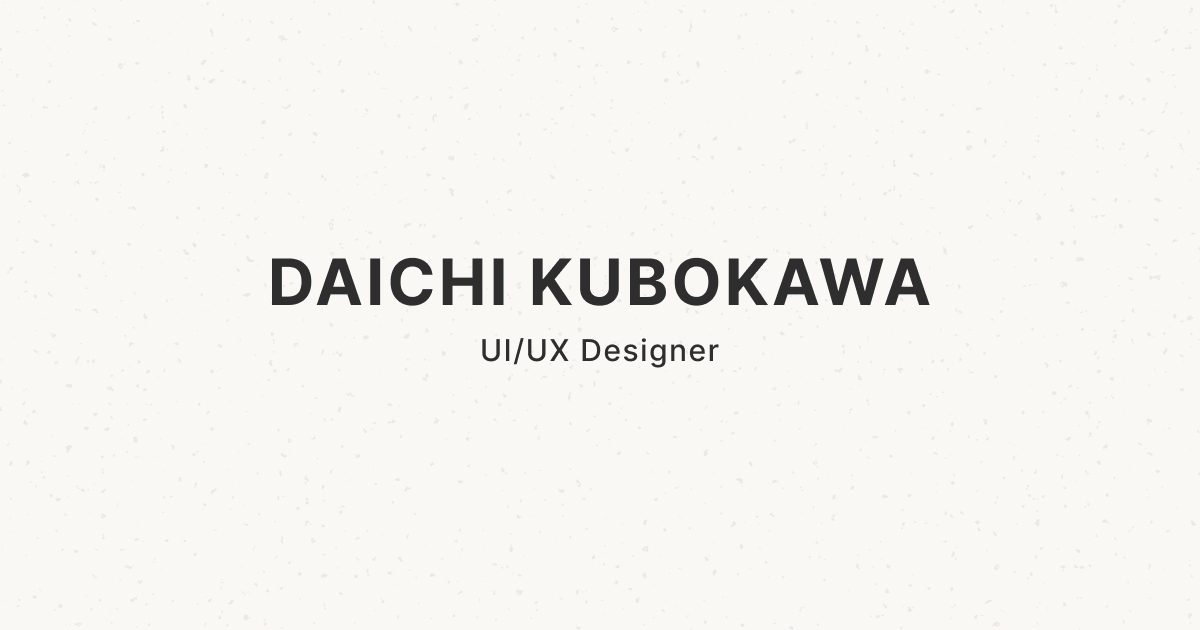
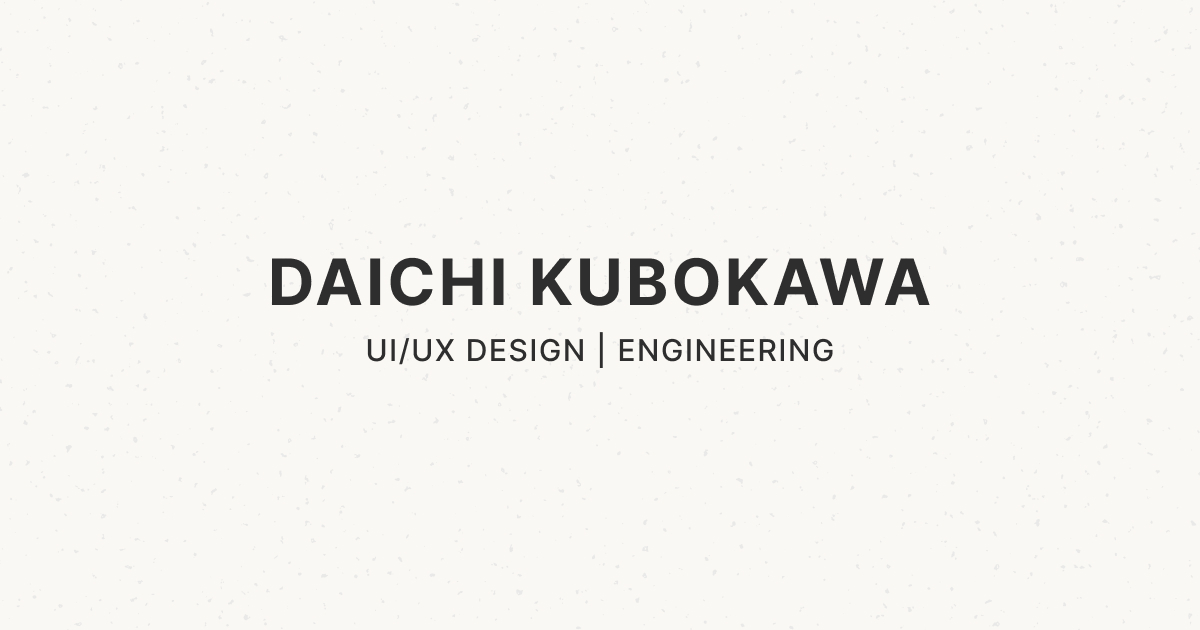
V1.42

Changed region(s): [[0.3083, 0.5127, 0.7092, 0.573]]

diff --git a/components/sections/Top/Hero/Hero.tsx b/components/sections/Top/Hero/Hero.tsx
@@ -8,7 +8,7 @@ export default function Hero() {
       <div className={`container ${styles.inner}`}>
         <div className={styles.copy}>
           <p className={`uppercaseLabel ${styles.eyebrow}`}>
-            UI/UX Design / Engineering
+            UI/UX Design | Engineering
           </p>
 
           <h1 className={`fontEn ${styles.title}`}>

diff --git a/README.md b/README.md
@@ -1,5 +1,5 @@
 # Daichi Kubokawa Portfolio
 
-窪川大地のポートフォリオサイト（QA Engineer / UI・UX）
+窪川大地のポートフォリオサイト（UI/UX DESIGN | ENGINEERING）
 
 https://www.daichikubokawa.com
